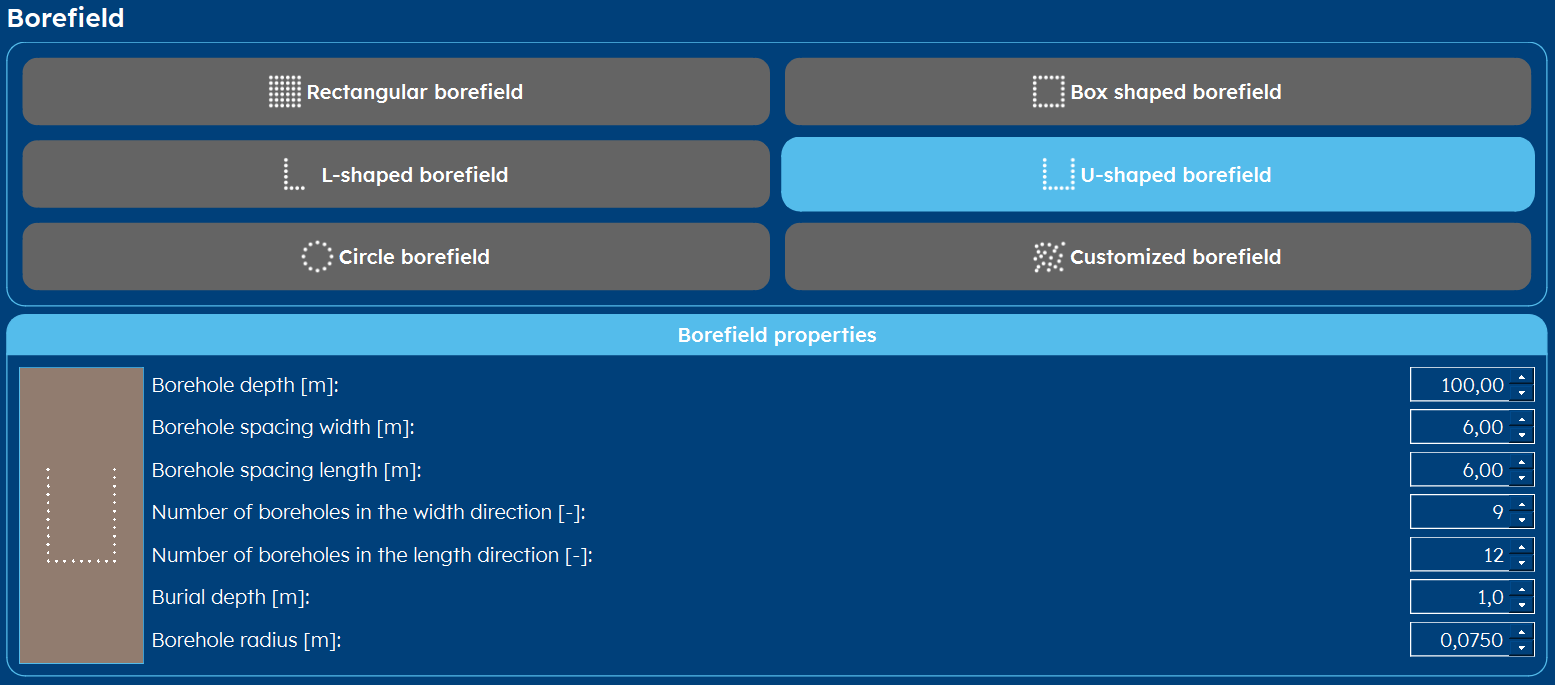
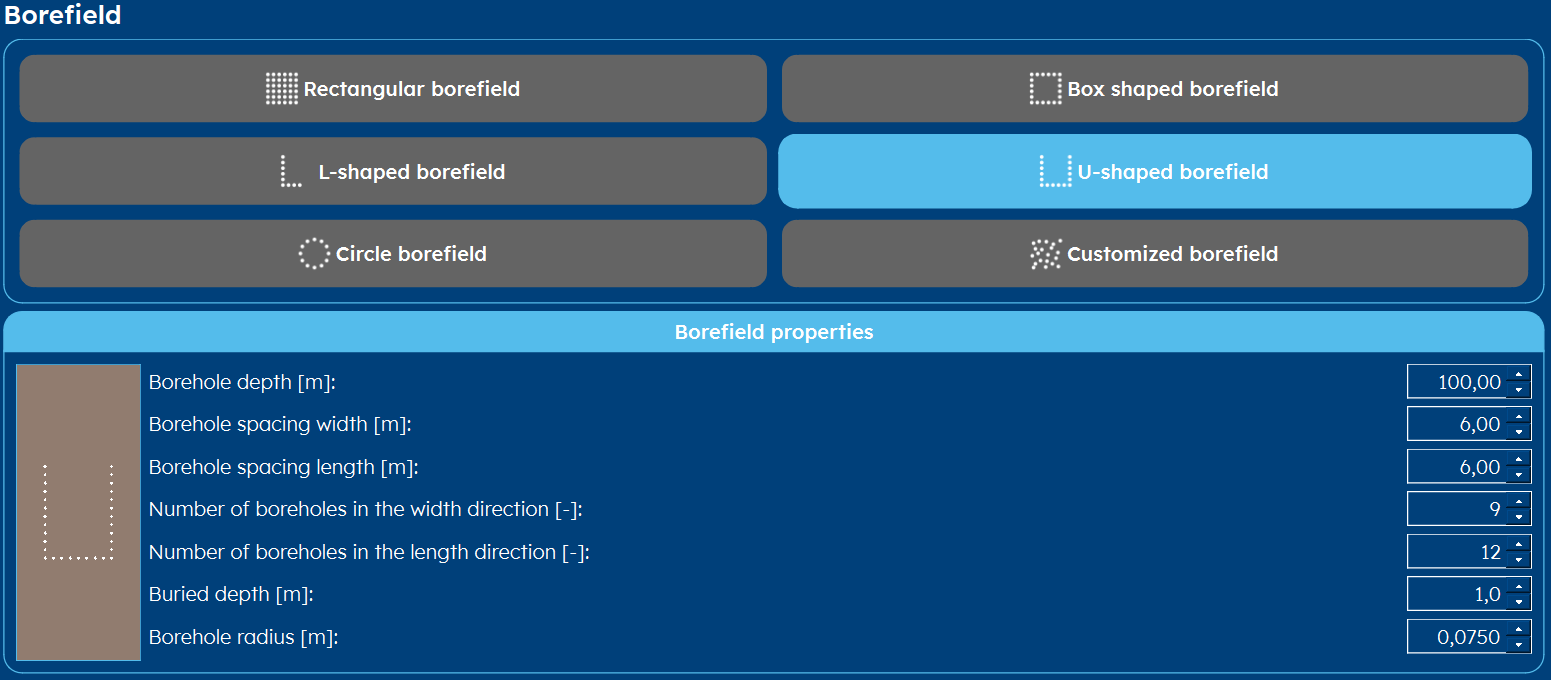
Finalise borefield data

diff --git a/docs/sources/tabs/borefield.rst b/docs/sources/tabs/borefield.rst
@@ -31,7 +31,6 @@ This can for example be used when there is a central building around which the b
 
 L configuration
 ***************
-If you have only half a box field, the borefield has the form of the letter 'L'.
 
 .. include:: ../General/borefield_general_description.rst
 
@@ -40,7 +39,6 @@ If you have only half a box field, the borefield has the form of the letter 'L'.
 
 U configuration
 ***************
-The last 'standard' options is to have a borefield in the form of the letter 'U'.
 
 .. include:: ../General/borefield_general_description.rst
 
@@ -50,6 +48,21 @@ The last 'standard' options is to have a borefield in the form of the letter 'U'
 Circular configuration
 **********************
 
+* ** Borehole depth [m]** The depth of the borehole in meters, relative to the buried depth.
+
+.. caution::
+    Please note that the borehole depth is relative to the burial depth, as is used in the convention by Here the convention of (Cimmino and Bernier, 2014) [1]_.
+    So if you have a burial depth of 1m and a borehole depth of 100m, the total drilled depth is 101m.
+
+* **Distance of the boreholes from the center of the field [m]** The radius at which the boreholes are drilled relative to the center
+    of the circle in meters.
+
+* **Number of boreholes [-]** The number of boreholes in the circular borefield.
+
+* **Buried depth [m]** The level at which the borehole starts, relative to the ground level. It can be seen as the
+    depth at which the horizontal pipes are installed.
+
+* **Borehole radius [m]** This is the radius of the drilled hole, which is typically between 0,06-0,1m.
 .. image:: Figures/borefield_circle.png
   :alt: Circular borefield
 
@@ -57,13 +70,50 @@ Circular configuration
 
 Custom configuration
 ********************
+If you have a very complex project that does not fit into one of the categories above,
+you can set a borefield using the specific borehole coordinates and set the parameters for each borehole
+individually.
+
+This can be done both :ref:`manually` or you can :ref:`import a borefield from csv`.
 
 .. image:: Figures/borefield_custom.png
   :alt: Custom borefield
 
+.. _manually:
+
+Manually
+========
+For smaller custom borefields, you can enter them directly into GHEtool, by clicking the '+' icon.
+This duplicates the current row to the row underneath. Here you can change the following parameters:
+
+* **x [m]** The x-coordinate of the borehole in meters.
+* **y [m]** The y-coordinate of the borehole in meters.
+* **Depth [m]** The depth of the borehole in meters, relative to the buried depth.
+* **Buried depth [m]** Every borehole can have a different buried depth (in meters). If, for example, a couple of boreholes are located
+    under a road, they are buried at another level.
+* **Borehole radius [m]** It is possible to set a custom radius for each borehole (in meters). However, most of the time, this is constant for the whole field.
+
+.. _import a borefield from csv:
+
 Import a borefield from csv
 ===========================
+For larger borefields, it can be easier to create the custom borefield elsewhere (for example in excel, see :ref:`create custom borefield` for a tutorial) and import it here.
 
+.. note::
+    The csv-file should have have all the columns (x, y, depth, buried depth and radius) like in the figure below.
+    .. image:: Figures/csv_data.png
+        :alt: Custom borefield
+
+#. Open the file where you have entered the borefield data
+#. Select the correct separator of the csv-file and decimal point
+#. Press load and your borefield should be automatically imported. Now you can change it to whatever you want.
+
+.. tip::
+    If you don't see your borefield loaded in correctly, try to change your separator or decimal point and try loading again.
+    This is a common issue.
+
+.. warning::
+    Be careful when setting a custom borefield. If you have two boreholes overlapping, you will get an error message.
 
 .. rubric:: References
 .. [1] Massimo Cimmino, Michel Bernier, A semi-analytical method to generate g-functions for geothermal bore fields, International Journal of Heat and Mass Transfer, Volume 70, 2014, Pages 641-650, ISSN 0017-9310, https://doi.org/10.1016/j.ijheatmasstransfer.2013.11.037.

diff --git a/docs/sources/General/borefield_general_description.rst b/docs/sources/General/borefield_general_description.rst
@@ -1,4 +1,4 @@
-* **Borehole depth [m]** The depth of the borehole in meters
+* **Borehole depth [m]** The depth of the borehole in meters.
 
 .. caution::
     Please note that the borehole depth is relative to the burial depth, as is used in the convention by Here the convention of (Cimmino and Bernier, 2014) [1]_.
@@ -14,7 +14,7 @@
 * **Number of boreholes in the length direction [-]** This is the number of boreholes in the length direction.
     If you multiply this with the borehole spacing in the length direction, you get the total borefield length.
 
-* **Burial depth [m]** The level at which the borehole starts, relative to the ground level. It can be seen as the
+* **Buried depth [m]** The level at which the borehole starts, relative to the ground level. It can be seen as the
     depth at which the horizontal pipes are installed.
 
 * **Borehole radius [m]** This is the radius of the drilled hole, which is typically between 0,06-0,1m.

diff --git a/docs/index.rst b/docs/index.rst
@@ -42,6 +42,7 @@ GHEtool Pro: the tool for borefield calculations
     sources/FAQ's/activate_trial.rst
     sources/FAQ's/activate_license.rst
     sources/FAQ's/winerror.rst
+    sources/FAQ's/borehole_internals.rst
 
 A short welcome message
 =======================

diff --git a/docs/sources/FAQ's/FAQ.rst b/docs/sources/FAQ's/FAQ.rst
@@ -12,3 +12,4 @@ Do you have a specific question? Perhaps you can find it in the list below!
     activate_trial.rst
     activate_license.rst
     winerror.rst
+    borehole_internals.rst

diff --git a/docs/sources/tutorial/create_custom_borefield.rst b/docs/sources/tutorial/create_custom_borefield.rst
@@ -1,0 +1,5 @@
+.. _create custom borefield:
+
+How can I Importing a custom borefield
+######################################
+

diff --git a/docs/sources/FAQ's/borehole_internals.rst b/docs/sources/FAQ's/borehole_internals.rst
@@ -1,0 +1,2 @@
+Why don't I see the borehole internals?
+#######################################
